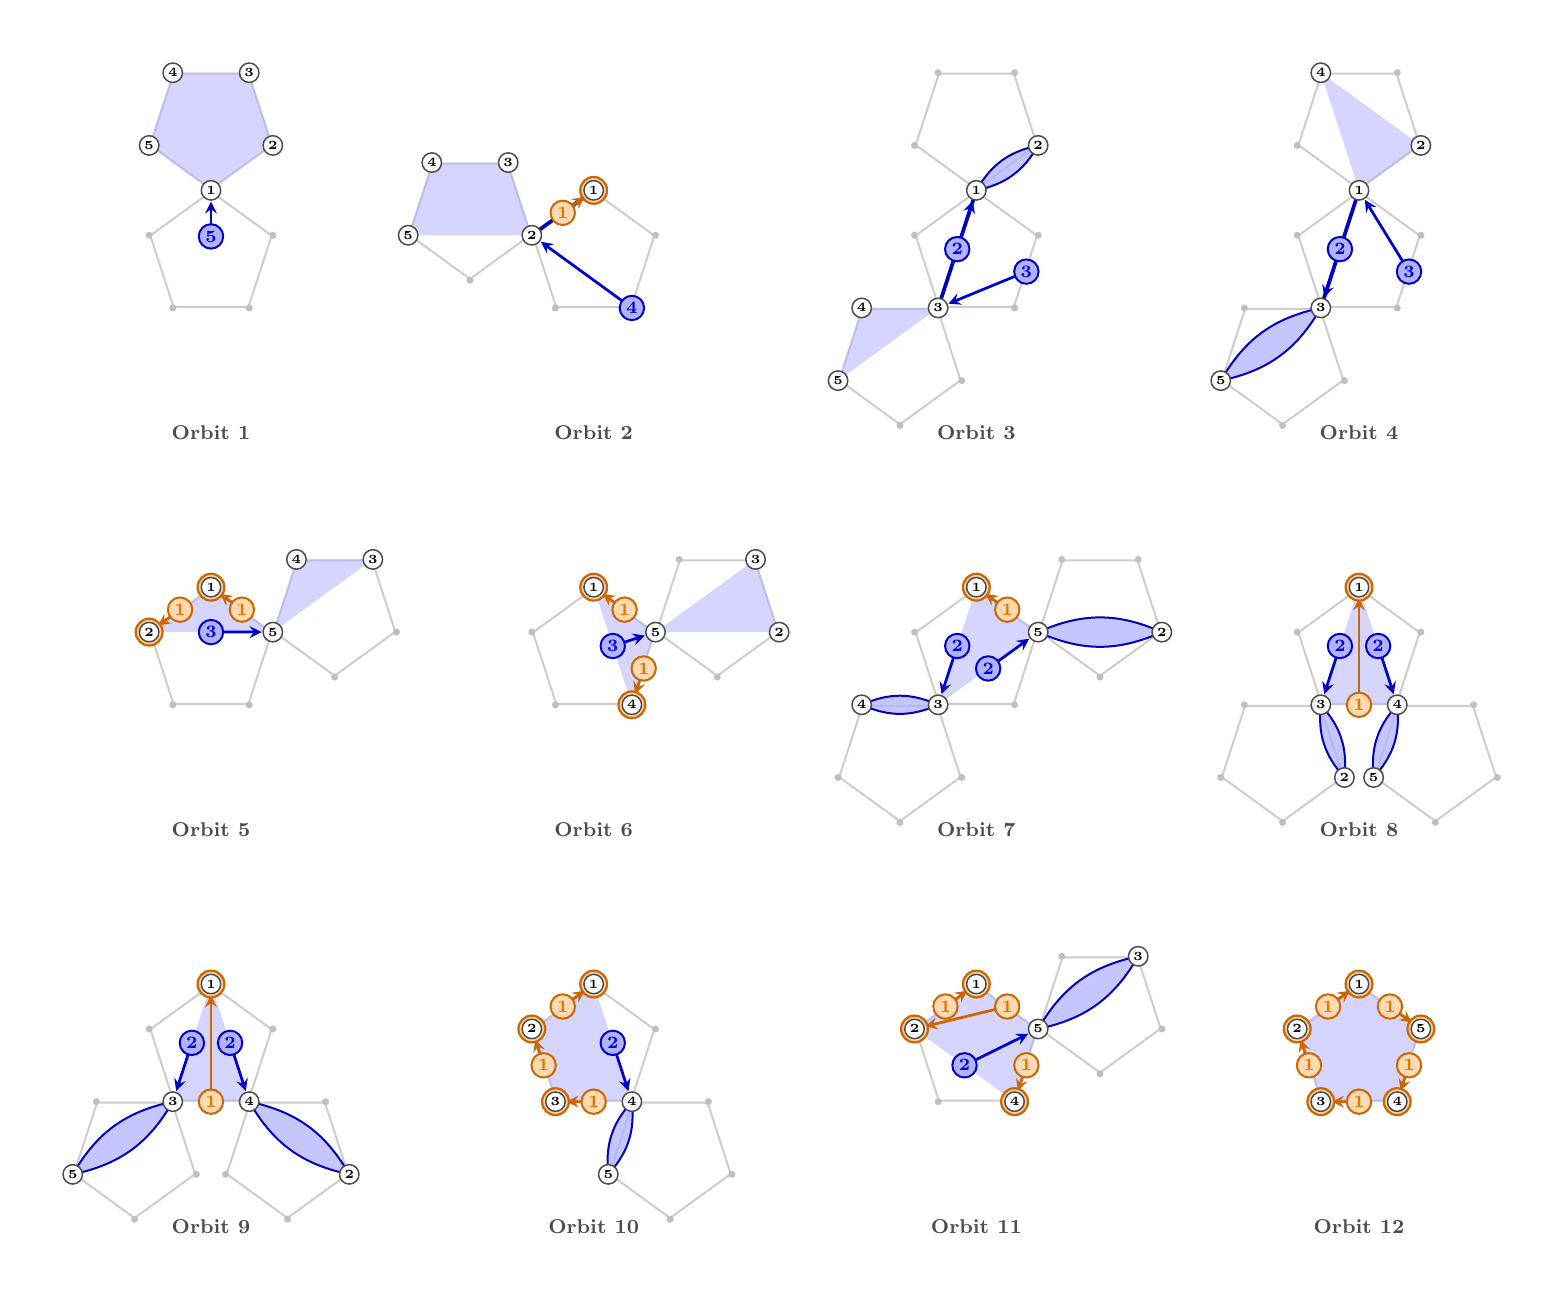
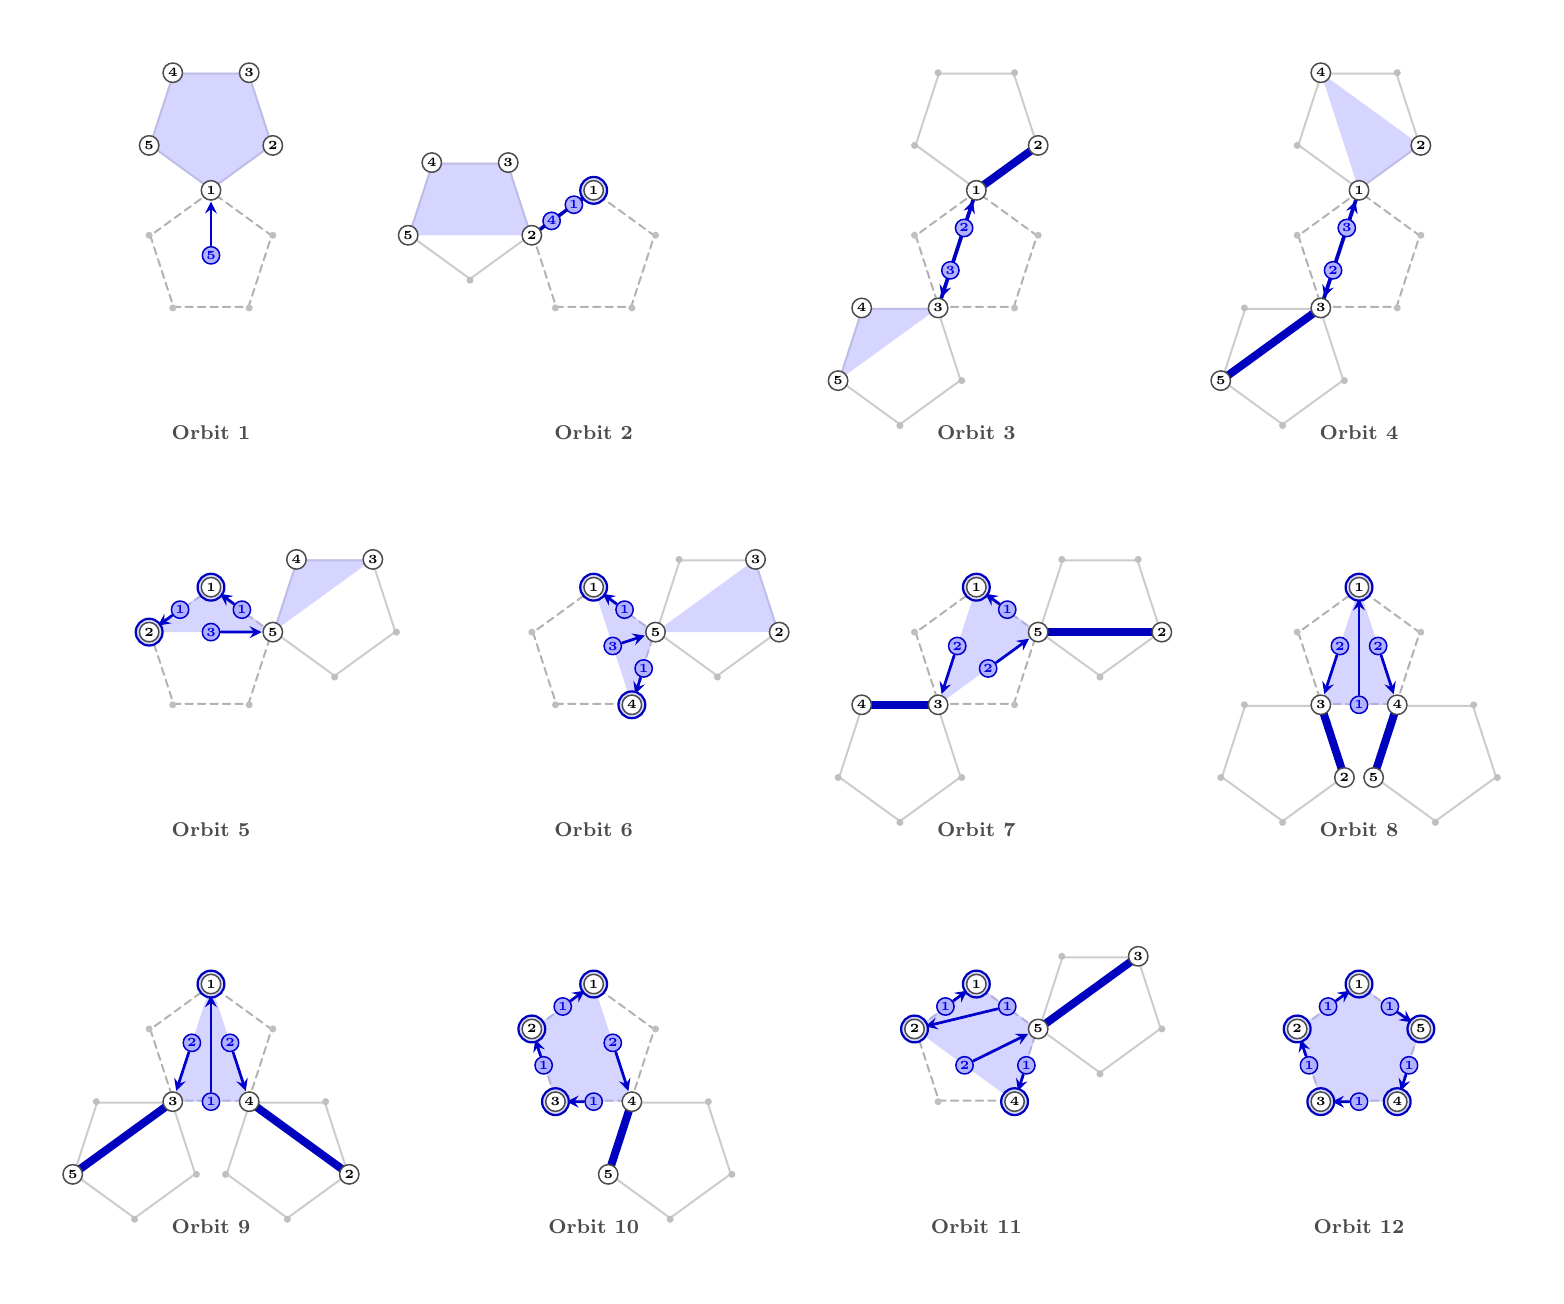
docs: update support art with dashed efflorescence hubs, chord thirding, and unigonal blue

diff --git a/README.md b/README.md
@@ -211,7 +211,7 @@ On higher-order lattices, non-uniform partitions with $k \ge 4$ blocks exhibit r
 
 **Figure 7**: Closed container representation (left) versus everted transversal bouquet (right) on $\mathbb{Z}\_8$.
 
-On the octagonal lattice $\mathbb{Z}\_8$, the 4-block partition $\mathcal{M} = \lbrace \lbrace 1, 2, 3 \rbrace, \lbrace 4, 5 \rbrace, \lbrace 6, 7 \rbrace, \lbrace 8 \rbrace \rbrace$ of shape $(3, 2, 2, 1)$ decomposes the circle into an arc of 3 vertices $m\_1$, two 2-vertex chords $m\_2$ and $m\_3$, and a singleton $m\_4$. The composition transversal $G(1, (3, 2, 2, 1)) = \lbrace 1, 4, 6, 8 \rbrace$ traces cyclic steps $(3, 2, 2, 1)$. In the everted transversal bouquet (right), the central quadrilateral routes its edge strides via internal coupling arrows: stride 3 connects to triangle petal $\lbrace 1, 2, 3 \rbrace$ at root 1, strides of length 2 connect to roots 4 and 6 where **exflorescing digonal petals** unfold outward into lens-shaped petals, and stride 1 connects to root 8 as an atomic singleton.
+On the octagonal lattice $\mathbb{Z}\_8$, the 4-block partition $\mathcal{M} = /123/45/67/8/$ of shape $(3, 2^2, 1)$ decomposes the circle into an arc of 3 vertices $m\_1$, two 2-vertex chords $m\_2$ and $m\_3$, and a singleton $m\_4$. The composition transversal $G(1, (3221)) = \lbrace 1, 4, 6, 8 \rbrace$ traces cyclic steps $(3, 2, 2, 1)$. In the everted transversal bouquet (right), the central quadrilateral routes its edge strides via internal coupling arrows: stride 3 connects to triangle petal $\lbrace 1, 2, 3 \rbrace$ at root 1, strides of length 2 connect to roots 4 and 6 where **efflorescing digonal petals** unfold outward as straight metric chords, and stride 1 connects to root 8 as an atomic singleton badge.
 
 <p align="center">
   <img src="img/fig7_z12_geometry.png" width="580" alt="Z12 Four-Block Geometry" />
@@ -245,6 +245,17 @@ Key observations across the first five orders:
 - **$\mathbb{Z}_1, \mathbb{Z}_2, \mathbb{Z}_3$ (6 orbits, 8 partitions)**: Universal realisability ($Z=0$); every mosaic admits rooted transversals.
 - **$\mathbb{Z}_4$ (7 orbits, 15 partitions)**: The first structural obstruction in modular transversal geometry emerges at Orbit 4: the alternating coset partition $/13/24/$ of shape $(2, 2)$ has zero transversals ($Z(4) = 1$), while the remaining 6 orbits are completely solvable.
 - **$\mathbb{Z}_5$ (12 orbits, 52 partitions)**: Universal realisability returns ($Z(5) = 0$); all 12 dihedral orbits admit valid transversals, totaling $T(5) = 305$ rooted solutions.
+
+#### The 12-Bloom Universe on $\mathbb{Z}_5$ (Everted Transversal Bouquets)
+
+For the pentagonal lattice $\mathbb{Z}_5$—the boundary of universal dihedral reflection symmetry—each of the 12 dihedral orbits unfolds into a canonical everted bouquet, displaying the full progression from unigon ($k=1$) to 5-gon ($k=5$):
+
+<p align="center">
+  <img src="img/chart_z5_12_efflorescences_labelled.png" width="900" alt="The 12-Bloom Transversal Universe on Z5 (Labelled)" />
+</p>
+
+- 🌸 **[High-Resolution Art Poster: The 12 Unlabelled Z_5 Blooms](img/chart_z5_12_efflorescences.png)**
+- 🏷 **[High-Resolution Technical Poster: The 12 Labelled Z_5 Blooms](img/chart_z5_12_efflorescences_labelled.png)**
 
 #### The 37 Dihedral Mosaics on $\mathbb{Z}_6$ (Full Poster)
 
